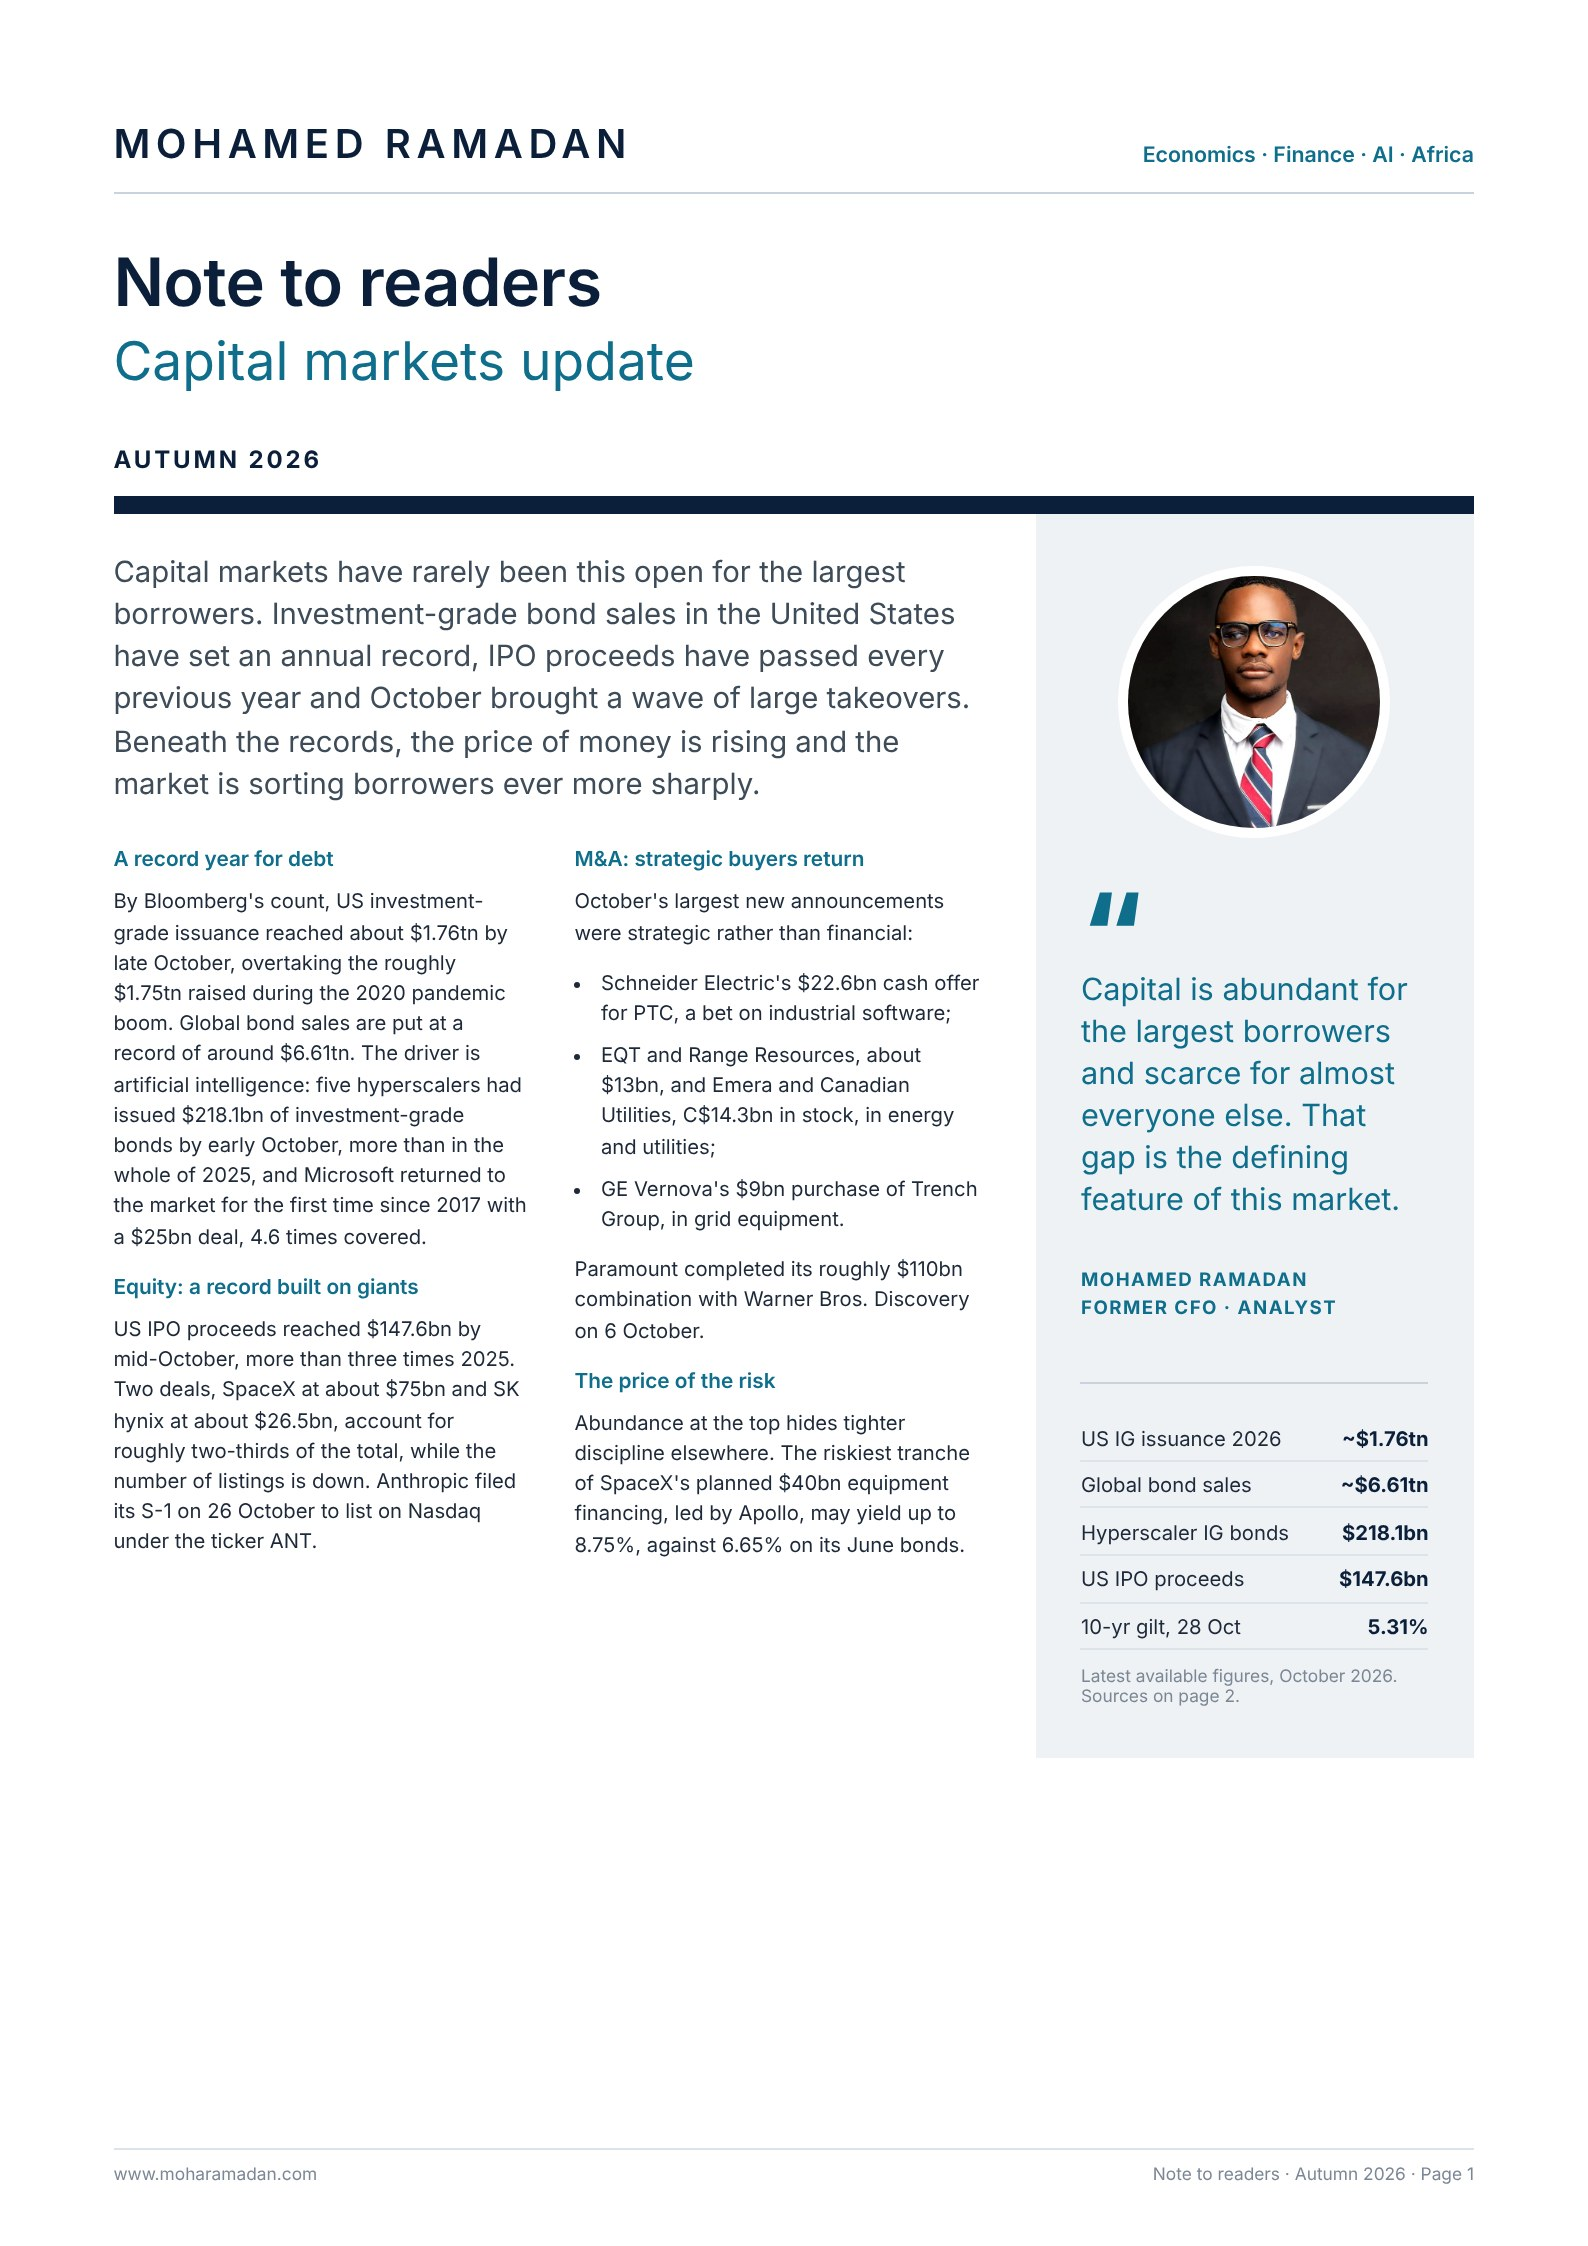
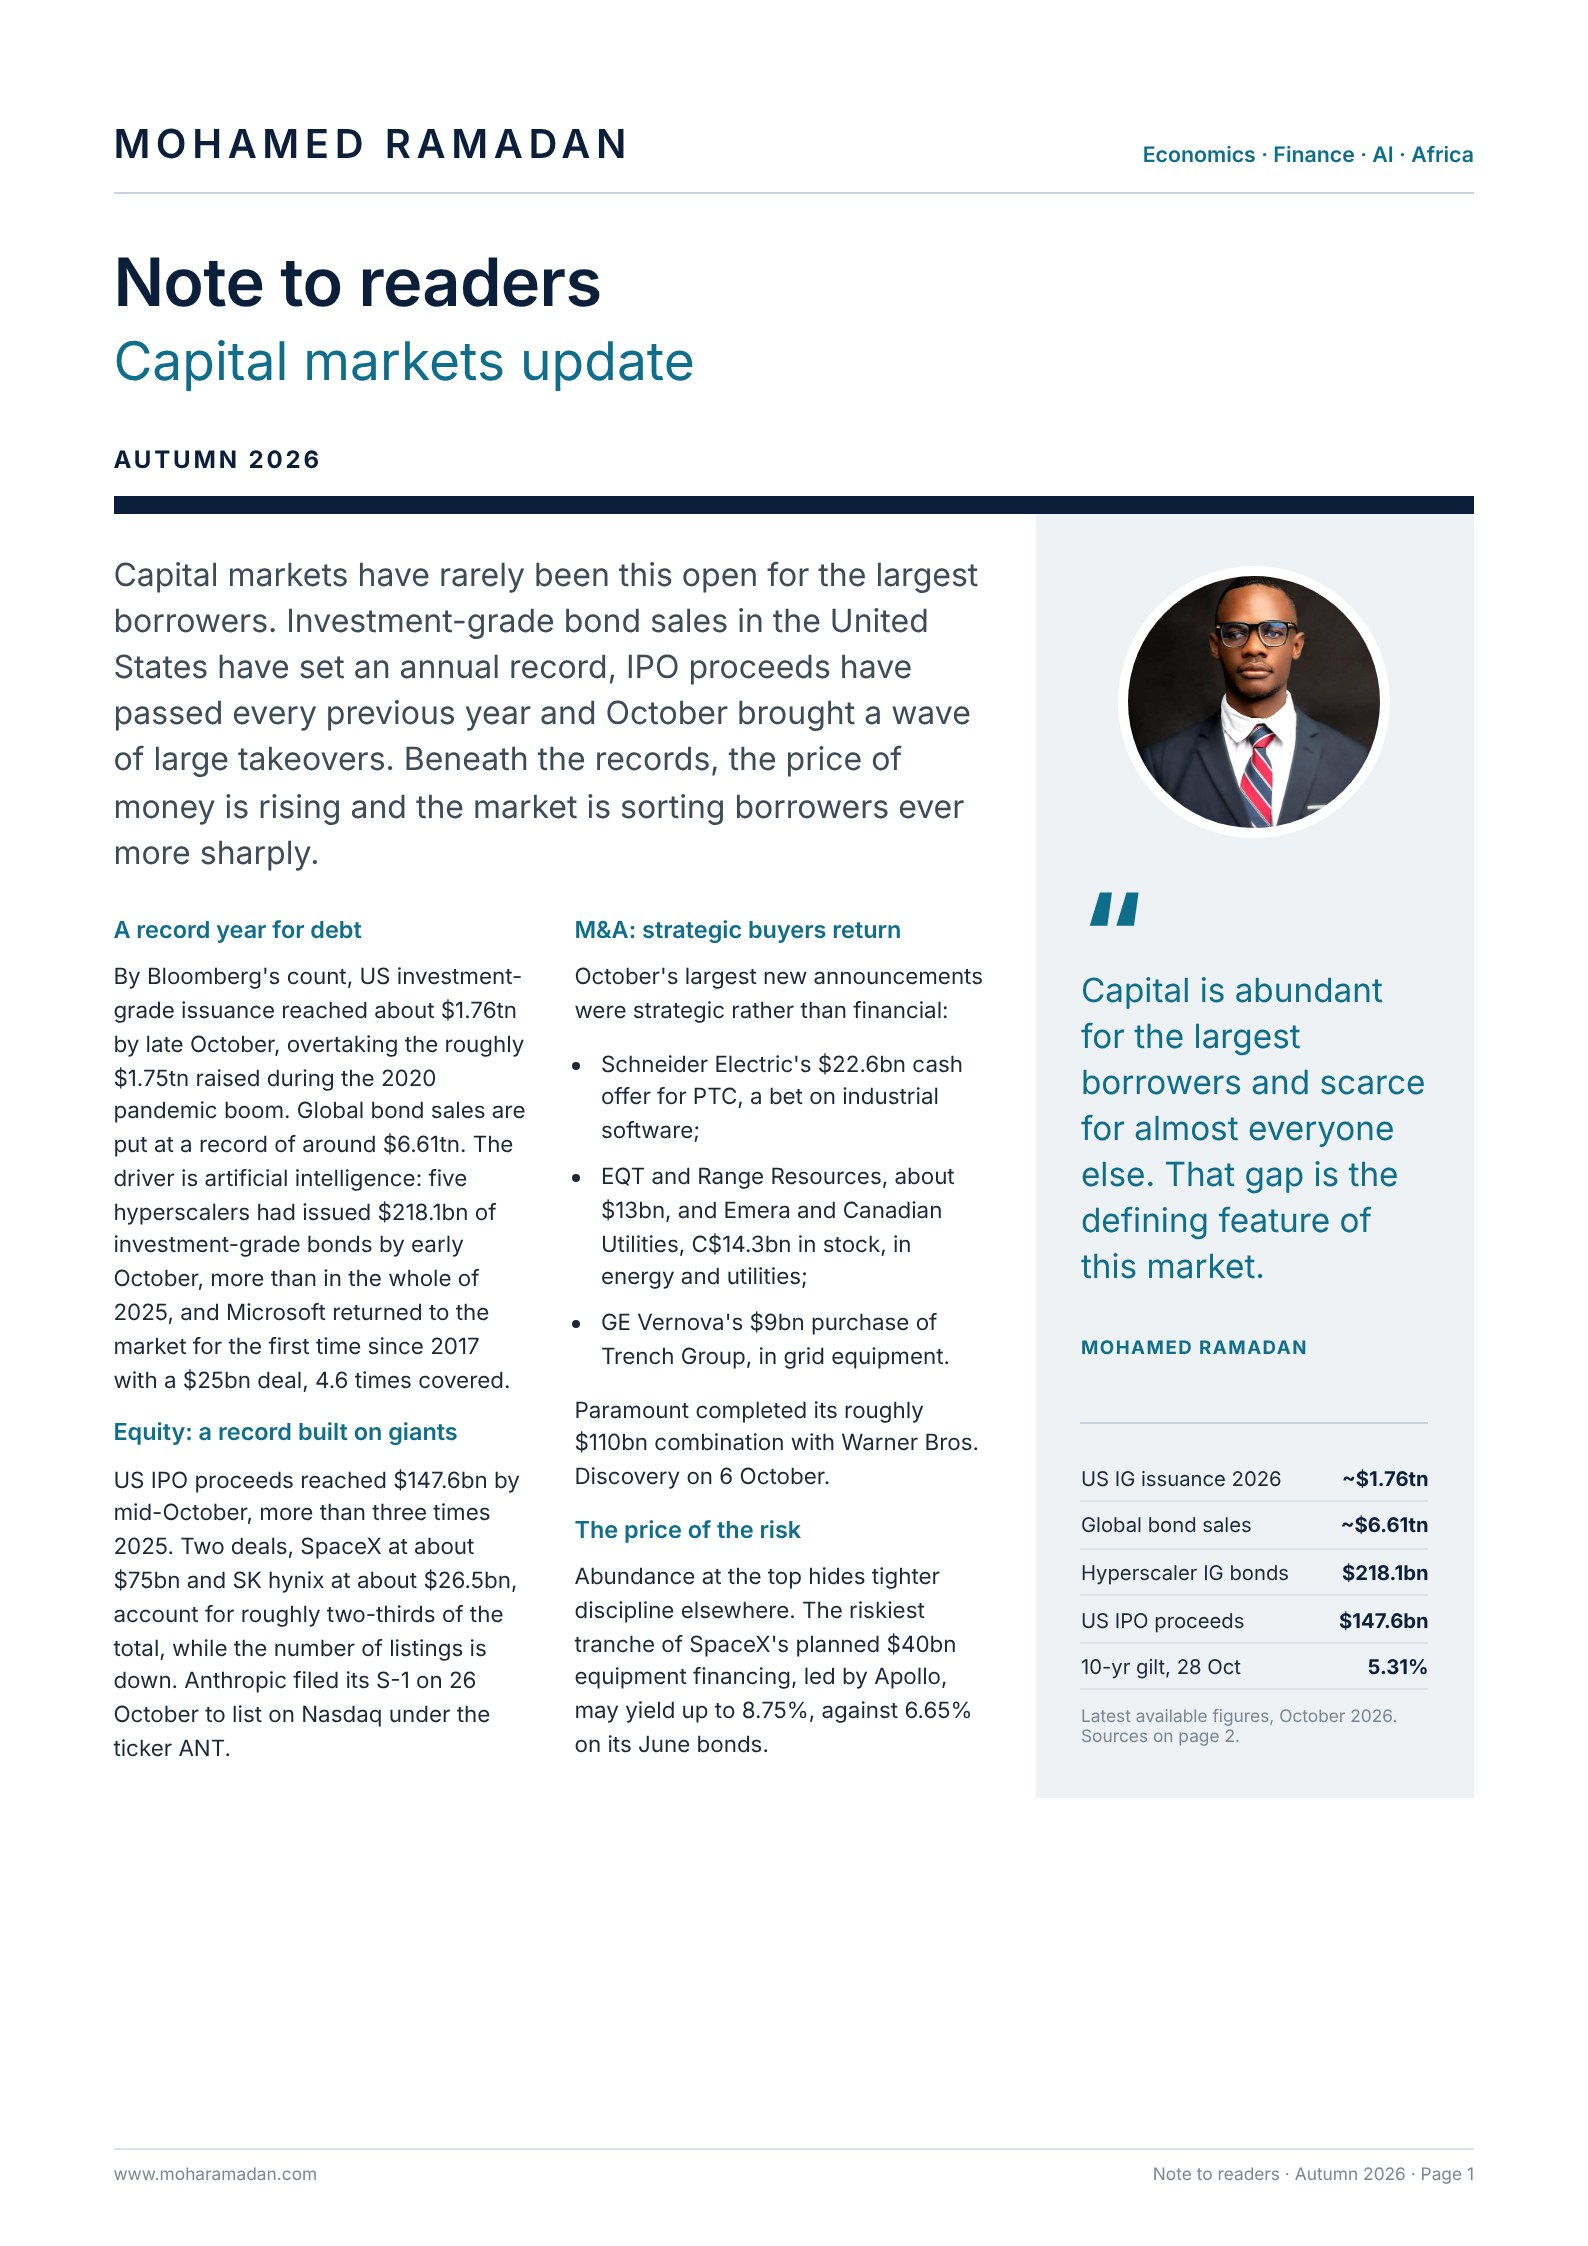
Note to readers mise en avant en haut de l'accueil et dans le bandeau ; note sans mention de poste, texte agrandi (#27)
Claude-Session: https://claude.ai/code/session_012uv7PBQbcSTMCaDnUm1tLH

Changed region(s): [[0.0617, 0.2493, 0.6171, 0.7792], [0.6788, 0.4363, 0.8948, 0.7792], [0.8331, 0.6233, 0.8948, 0.748]]

diff --git a/site/style.css b/site/style.css
@@ -341,3 +341,12 @@ a.nt{transition:box-shadow .2s}a.nt:hover{box-shadow:0 8px 24px rgba(11,31,58,.0
 .ct-c{font-size:11px;font-weight:800;letter-spacing:.08em;color:var(--coral)}.ctile.empty{background:var(--soft)}.ctile.empty .meta{color:var(--faint)}
 .vfile{display:block;width:100%;aspect-ratio:16/9;background:#000;border-radius:8px;margin:22px 0 10px}
 .v-video .vfile{margin:0}
+
+/* v16 : publication mise en avant sur l'accueil */
+.feat{padding-top:24px}
+.feat-in{display:grid;gap:28px;align-items:center;background:#EEF2F5;border-radius:12px;padding:26px;border-top:4px solid var(--coral)}
+.feat-im img{width:100%;max-width:320px;border-radius:4px;box-shadow:0 14px 34px rgba(11,31,58,.22);transition:transform .2s}.feat-im:hover img{transform:translateY(-3px)}
+.feat h2{font-size:clamp(24px,2.8vw,34px);line-height:1.15;margin-top:10px}.feat h2 a:hover{color:var(--blue)}
+.feat-k{display:inline;color:var(--blue)}.feat .ex{color:var(--muted);font-size:17px;margin-top:10px}
+.feat ul{margin:14px 0 0;padding-left:1.2em;display:grid;gap:6px;font-size:15px}
+@media (min-width:860px){.feat-in{grid-template-columns:320px 1fr;gap:40px;padding:36px}}

diff --git a/content/reports/capital-markets-update-autumn-2026.md b/content/reports/capital-markets-update-autumn-2026.md
@@ -5,6 +5,8 @@ date: 2026-11-03
 series: Note to readers
 number: "Autumn 2026"
 pdf: /documents/capital-markets-update-autumn-2026.pdf
+featured: true
+preview: /kit/notes/capital-markets-update-p1.jpg
 key_messages:
   - "US investment-grade issuance reached about $1.76tn by late October, an annual record."
   - "Five hyperscalers issued $218.1bn of investment-grade bonds by early October, more than in all of 2025."
